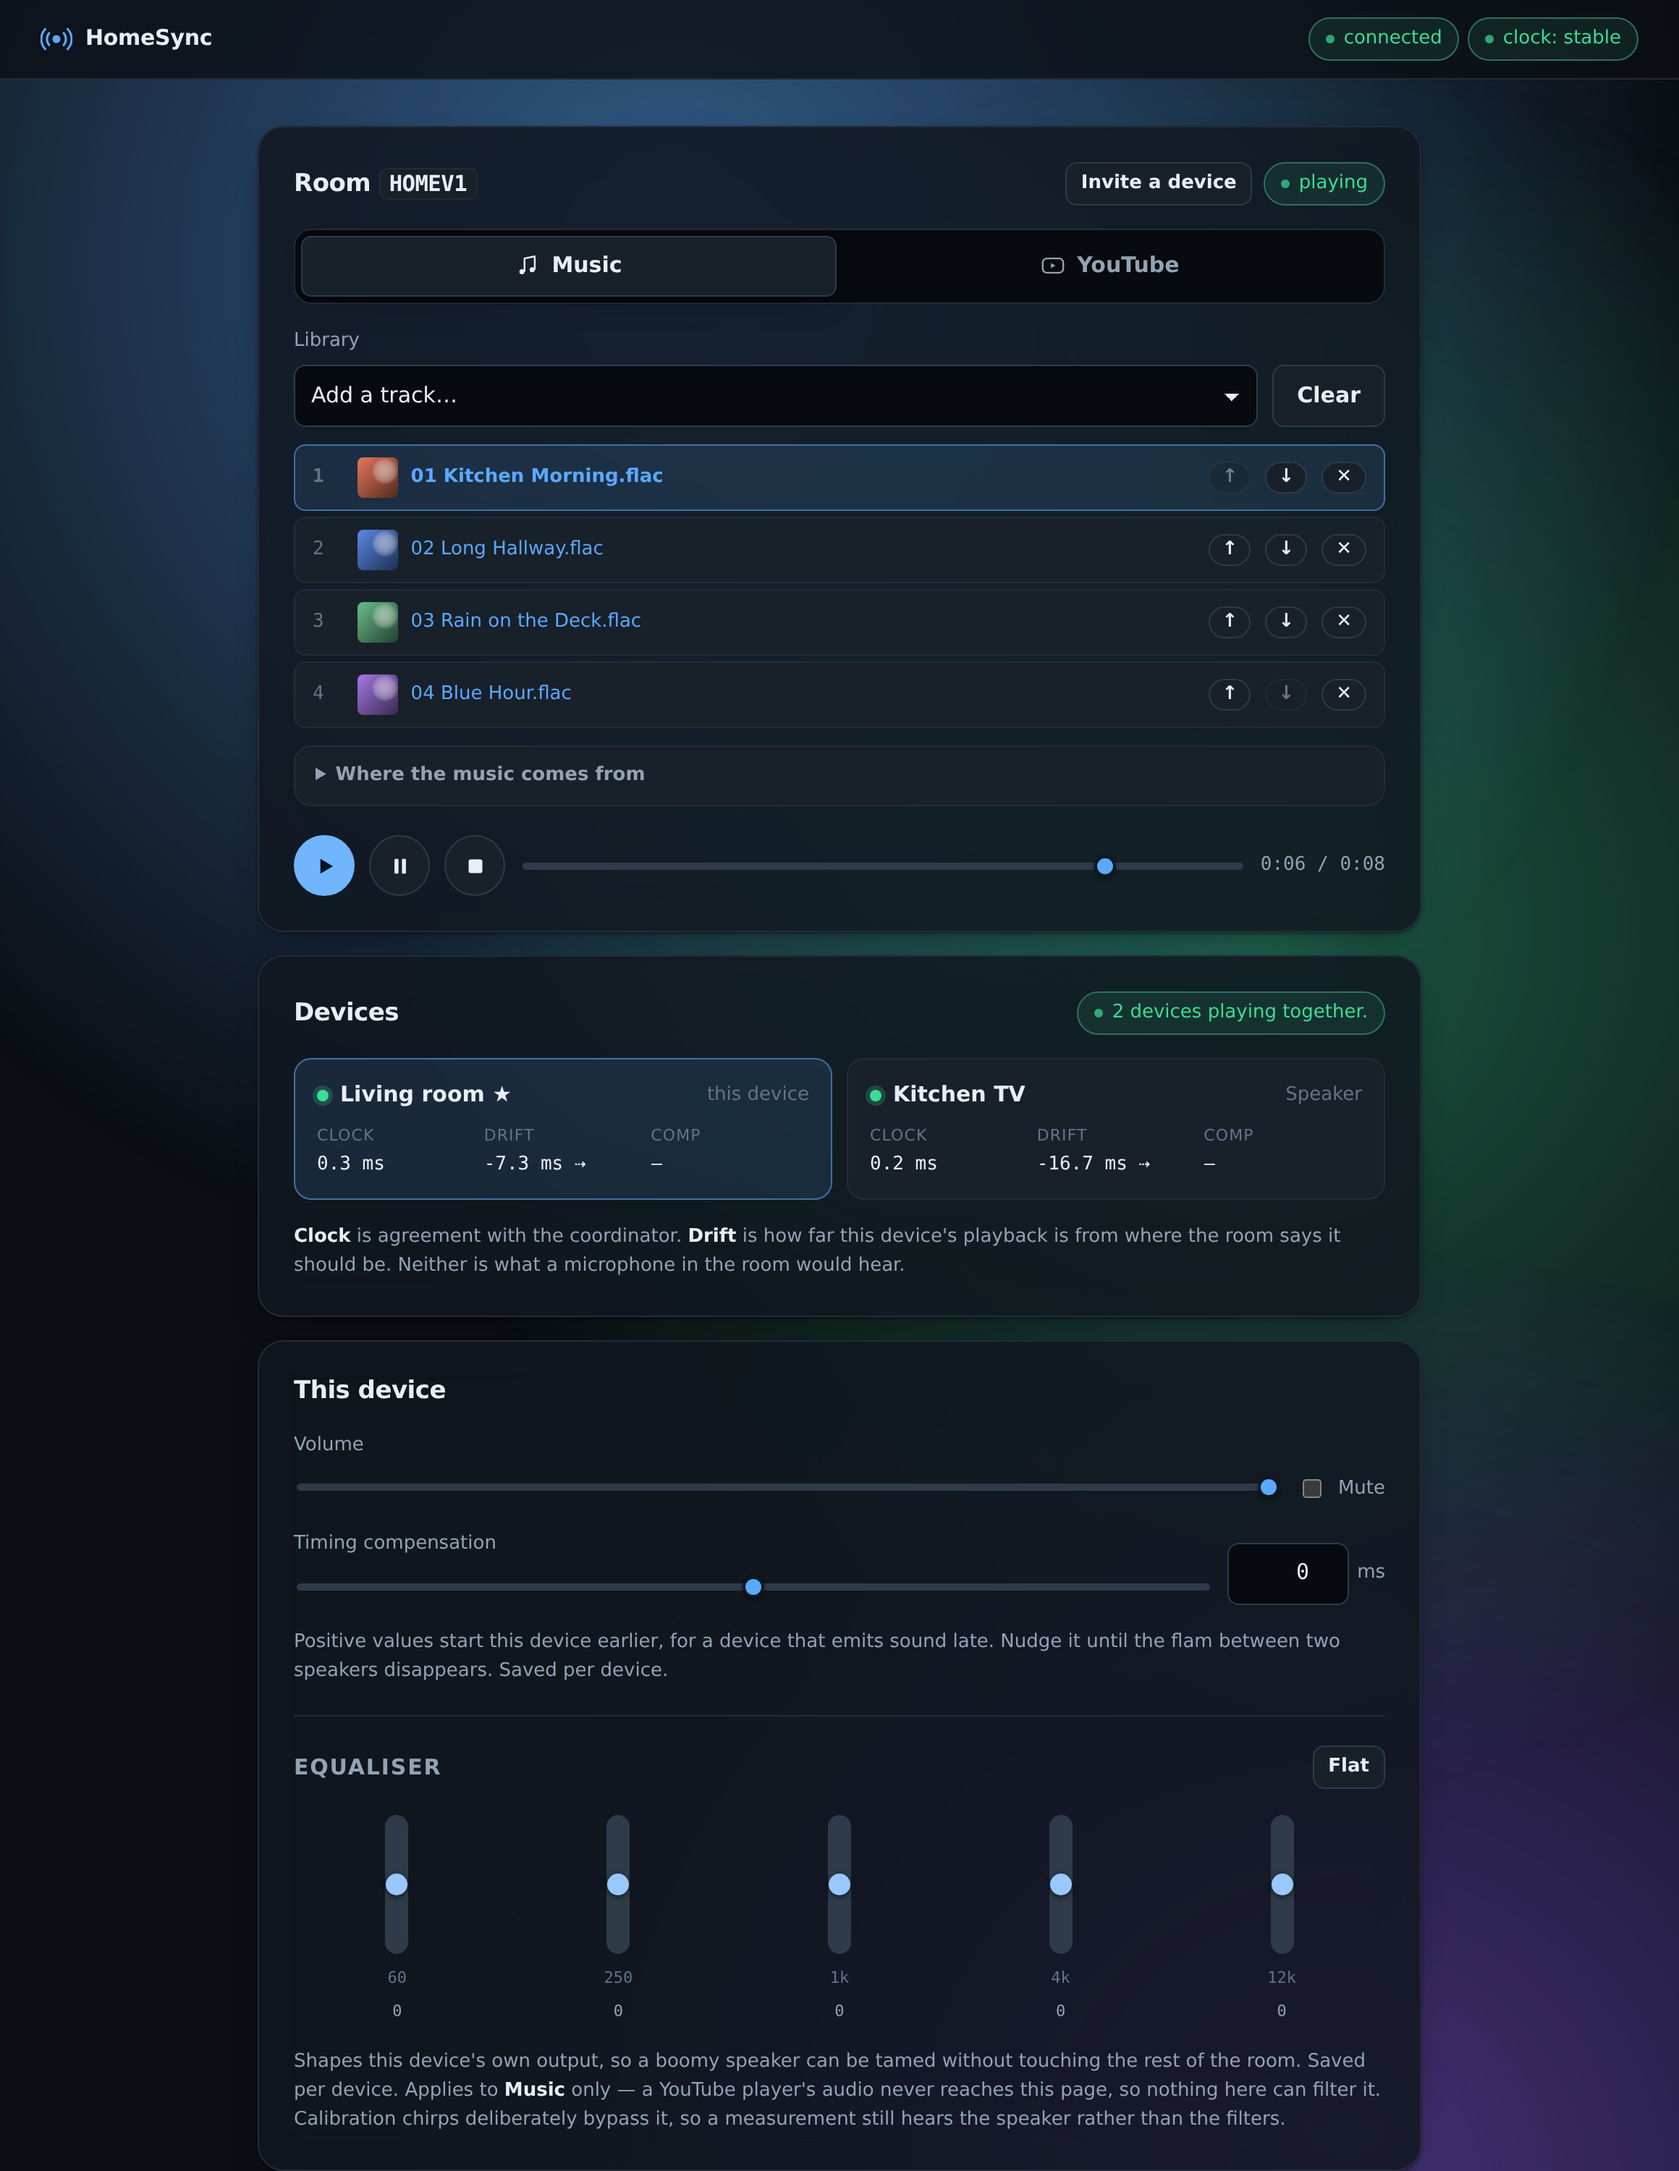
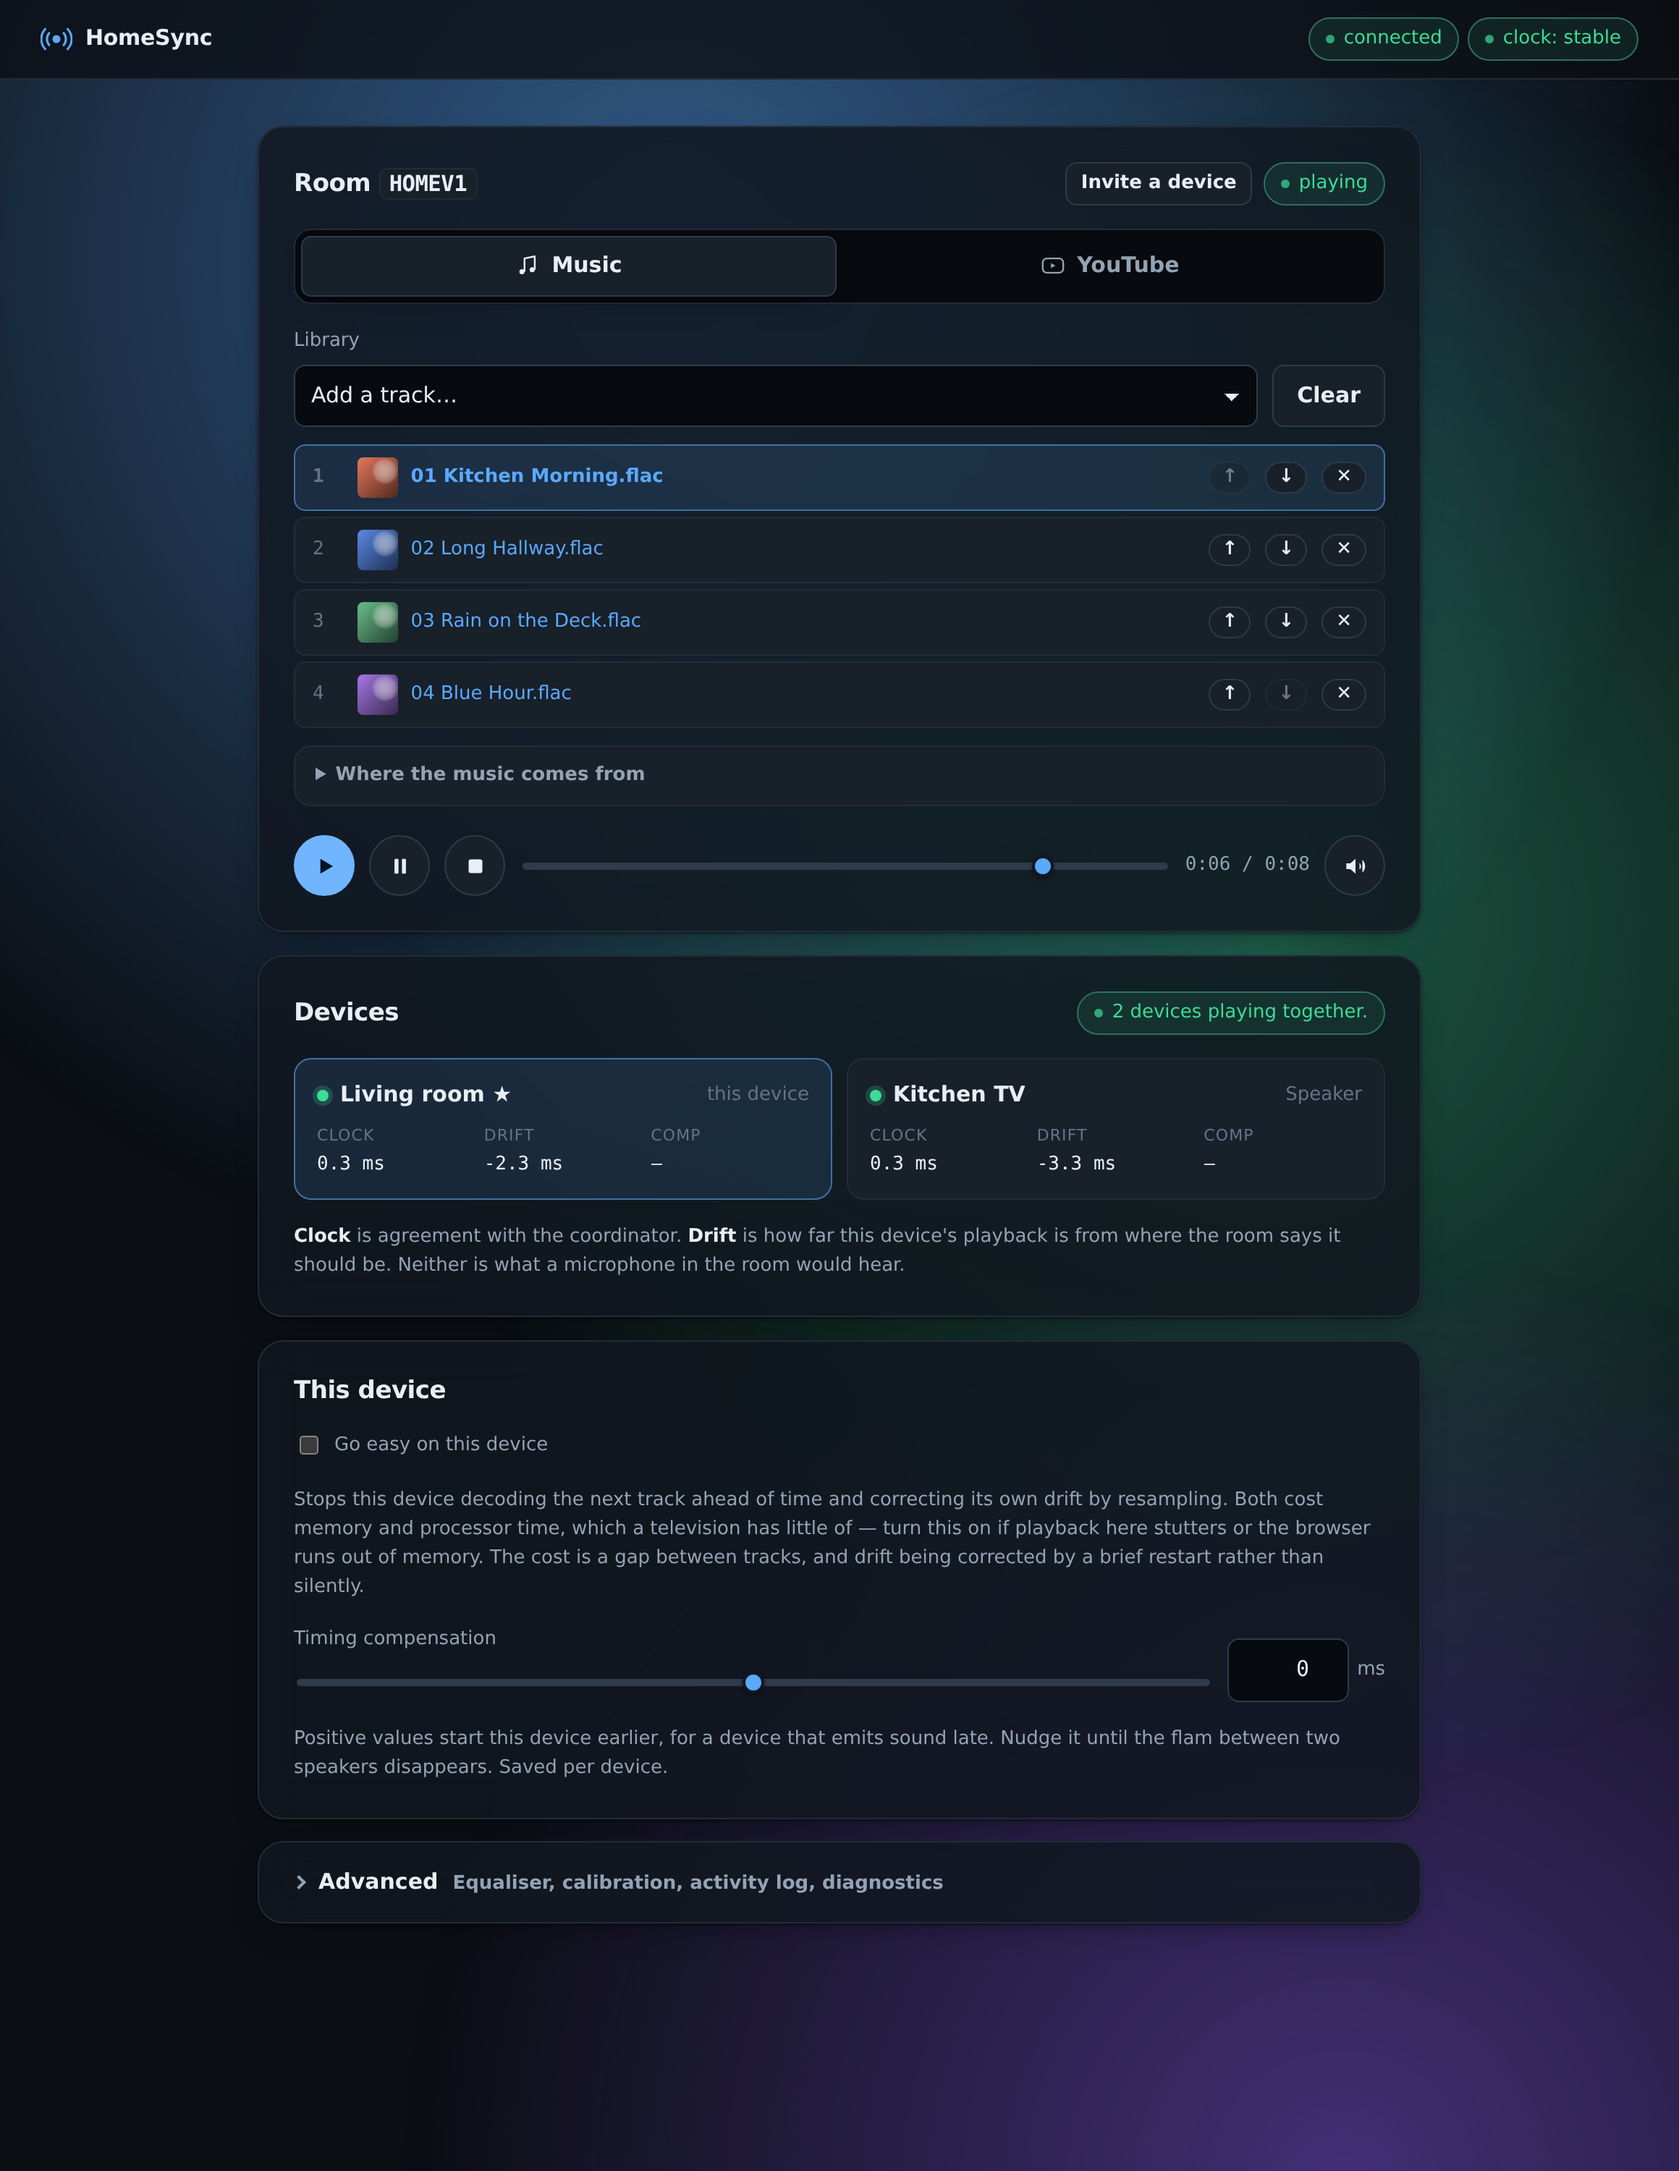
Describe the interface that exists now, and fix a checkbox that had come loose
The last three merges moved most of the interface, and the README still
described the old one.

**What is where** is a new short section, because the answer changed:
volume and mute are in the transport, the device panel holds the two
settings that are actually about one device, and everything else —
equaliser, calibration, audio-path facts, activity log, diagnostics — is
behind Advanced.

**Troubleshooting** gained the row somebody with a stuttering television
needs: tick "Go easy on this device", what it stops doing, and that it is
ticked automatically on a device that looks constrained.

**Calibration** is now described as absent rather than merely unavailable
on a plain-HTTP room, because that is what it does.

Counts corrected against a run: 253 unit, 8 integration — the SHA-256
vectors joined them — and 98 browser. The release binary's size and the
`release-debug` profile are mentioned where somebody building one would
look. The equaliser bullet says it costs nothing while flat, since that
is the interesting part.

**A bug the screenshots caught.** "Go easy on this device" used a
`checkbox` class that does not exist in the stylesheet, so the input and
its label fell onto separate lines inside the panel grid and the tick box
floated above the text, centred and unattached. It is `switch`, like
every other checkbox here. Measured after the fix: the box and its label
share a vertical centre, 22px tall on one line.
[…]

diff --git a/web/src/index.html b/web/src/index.html
@@ -226,7 +226,7 @@
                 <input type="range" id="volume" class="volume-slider" min="0" max="100" value="100"
                        orient="vertical" aria-label="Volume" />
                 <span id="volume-value" class="volume-value">100</span>
-                <label class="checkbox volume-mute" for="mute">
+                <label class="switch volume-mute" for="mute">
                   <input type="checkbox" id="mute" />
                   <span>Mute</span>
                 </label>
@@ -255,7 +255,7 @@
           <div class="panel-head">
             <h2>This device</h2>
           </div>
-          <label class="checkbox" for="light-touch">
+          <label class="switch" for="light-touch">
             <input type="checkbox" id="light-touch" />
             <span>Go easy on this device</span>
           </label>

diff --git a/README.md b/README.md
@@ -41,7 +41,7 @@ link.
 
 - 🎵 **Music** — every device downloads the same file, verifies it, and plays it off one shared timeline
 - 📺 **YouTube together** — every device runs its own player; HomeSync keeps them lined up
-- 🎚 **Per-device equaliser** — tame the boomy speaker in the kitchen without touching the rest
+- 🎚 **Per-device equaliser** — tame the boomy speaker in the kitchen without touching the rest, and it costs nothing while it is flat
 - 📶 **No internet needed** — it is your LAN, your files, your machine
 - 🎛 **Quiet drift correction** — a device whose clock runs fast is nudged back by a fraction of a percent instead of restarting the room
 - 🚪 **Several rooms** — the kitchen plays one thing while the bedroom plays another, from one coordinator
@@ -98,6 +98,12 @@ names the device when it isn't:
   <img src="docs/images/devices.png" alt="Devices panel reading '2 devices playing together', with per-device clock agreement and drift" width="700">
 </p>
 
+The two settings that are genuinely about one device, and nothing else:
+
+<p align="center">
+  <img src="docs/images/device-settings.png" alt="The device panel: 'Go easy on this device' and a timing compensation slider" width="700">
+</p>
+
 It follows your system theme:
 
 <p align="center">
@@ -122,8 +128,12 @@ cargo build --release
 ./target/release/homesync --media-dir ~/Music
 ```
 
-The binary is self-contained; copy it wherever you like. It needs no files
+About 8.5 MB, self-contained; copy it wherever you like. It needs no files
 beside it except the ones it writes itself (certificate, device profiles).
+
+The release profile strips symbols and links with LTO, which takes a few minutes
+— `cargo build` is untouched. If a problem only appears in an optimised build,
+`cargo build --profile release-debug` gives the same thing with symbols.
 
 ### Common setups
 
@@ -286,8 +296,19 @@ happens on its own.
 4. **Or measure it.** Acoustic calibration plays coded chirps and has one device
    listen, working out each speaker's real delay rather than the one it claims.
    This needs `--tls`, because browsers refuse microphone access on a plain-HTTP
-   address. It has never been run against a real microphone — see
-   [Status](#status).
+   address — on a plain-HTTP room the section is not shown at all rather than
+   offering a button that cannot work. It has never been run against a real
+   microphone; see [Status](#status).
+
+### What is where
+
+The main view is deliberately short: the queue, the transport, and the devices.
+
+- **Volume and mute** live in the transport, beside the scrubber.
+- **Timing compensation** and **Go easy on this device** are the two settings in
+  the device panel, because both describe this device rather than the room.
+- **Everything else** — equaliser, acoustic calibration, the audio-path facts,
+  the activity log and the diagnostics export — is behind **Advanced**.
 
 ### Playing to a TV
 
@@ -312,6 +333,8 @@ software fixes.
 | **Calibrate** is greyed out or silent | You are on plain HTTP. Restart with `--tls` and accept the certificate warning on the microphone device. |
 | A file will not play | The interface names it. It is a format this browser cannot decode, or the file is damaged. |
 | Devices drift apart over time | Export the diagnostics — the button is under Advanced — and open an issue with the JSON attached. |
+| A television stutters or runs out of memory | Tick **Go easy on this device** in its device panel. It stops that device decoding the next track ahead of time and correcting its own drift by resampling, both of which cost memory and processor a TV has little of. It is ticked automatically on a device that looks constrained. |
+| Playback is fine but the interface is cluttered | Almost everything optional is behind **Advanced** — equaliser, calibration, activity log, diagnostics. The main view is the queue, the transport and the devices. |
 
 ## How it works
 
@@ -363,6 +386,12 @@ A short version of the rest; the full design is in
 - **A readiness barrier.** Nothing plays until every receiver holds the verified
   file and a stable clock, with an explicit override for when you would rather
   not wait.
+- **Nothing charged for a feature you are not using.** The five-band equaliser
+  is out of the signal path entirely while it is flat, rather than filtering
+  every sample for no audible change; a device that looks short of memory or
+  processor does not preload the next track or correct its drift by resampling.
+  Both matter most on a television, which is the device with the least to
+  spare.
 - **Drift corrected by resampling.** A device whose audio clock runs fast has
   its playback rate trimmed by up to 0.2% — about 3.5 cents of pitch, under the
   5-10 cents a listener can detect — and slides back into position over the next
@@ -420,6 +449,12 @@ tested; almost none of it has been heard by a human.
   the internet, decoded and played through the interface. AAC failed, which
   turned out to be the open-source Chromium build having no licensed decoder
   rather than anything in HomeSync.
+- Doing less on a constrained device: a desktop joins with **Go easy on this
+  device** unticked and the same build with a television's user agent joins with
+  it ticked. The compressed bytes of a 12 MB FLAC are measured released as the
+  decode starts, where they used to be held twice over.
+- The metadata parsers under 81 million fuzzing executions across three targets,
+  with no crash and no out-of-bounds picture range.
 
 ### Implemented but never run against reality
 
@@ -491,12 +526,14 @@ two-headless-browser end-to-end run, and the checkpoint-1 clock simulation.
   `correcting_a_device_does_not_move_the_room_timeline` is the bug that made
   every device restart every few seconds, and it is a test rather than a
   changelog entry because that is the only form that stays true.
-- **Seven integration tests** drive the real binary over a socket with fake
+- **Eight integration tests** drive the real binary over a socket with fake
   devices: the calibration loop against known ground truth, a live stream
-  holding its timeline across 400 frames, diagnostics access control, and the
-  join limiter — including that a device rejoining *correctly* thirty times is
-  never locked out, which is the case the design is shaped around.
-- **85 browser tests**, including the drift-correction control law run as a
+  holding its timeline across 400 frames, diagnostics access control, the join
+  limiter — including that a device rejoining *correctly* thirty times is never
+  locked out, which is the case the design is shaped around — and SHA-256
+  against published vectors, because that digest is every media id and every
+  integrity check a browser performs.
+- **98 browser tests**, including the drift-correction control law run as a
   closed loop against a simulated drifting clock — the trim changes the device's
   speed, the speed changes the drift, the next tick sees it. A control law that
   looks sensible one call at a time and oscillates forever in a loop passes the
